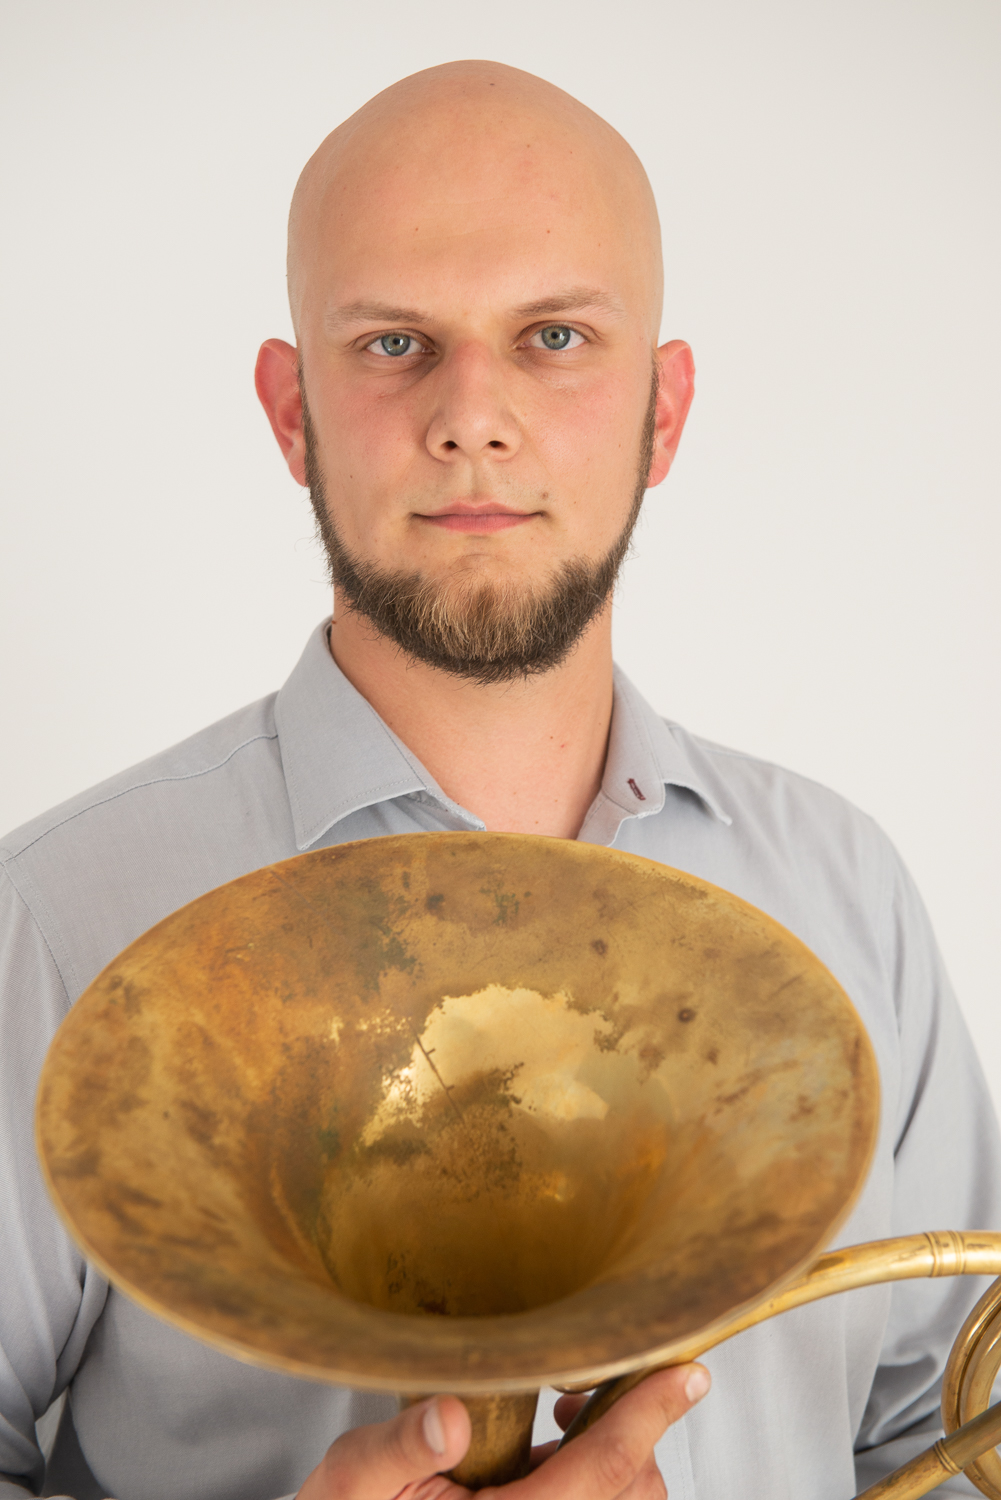
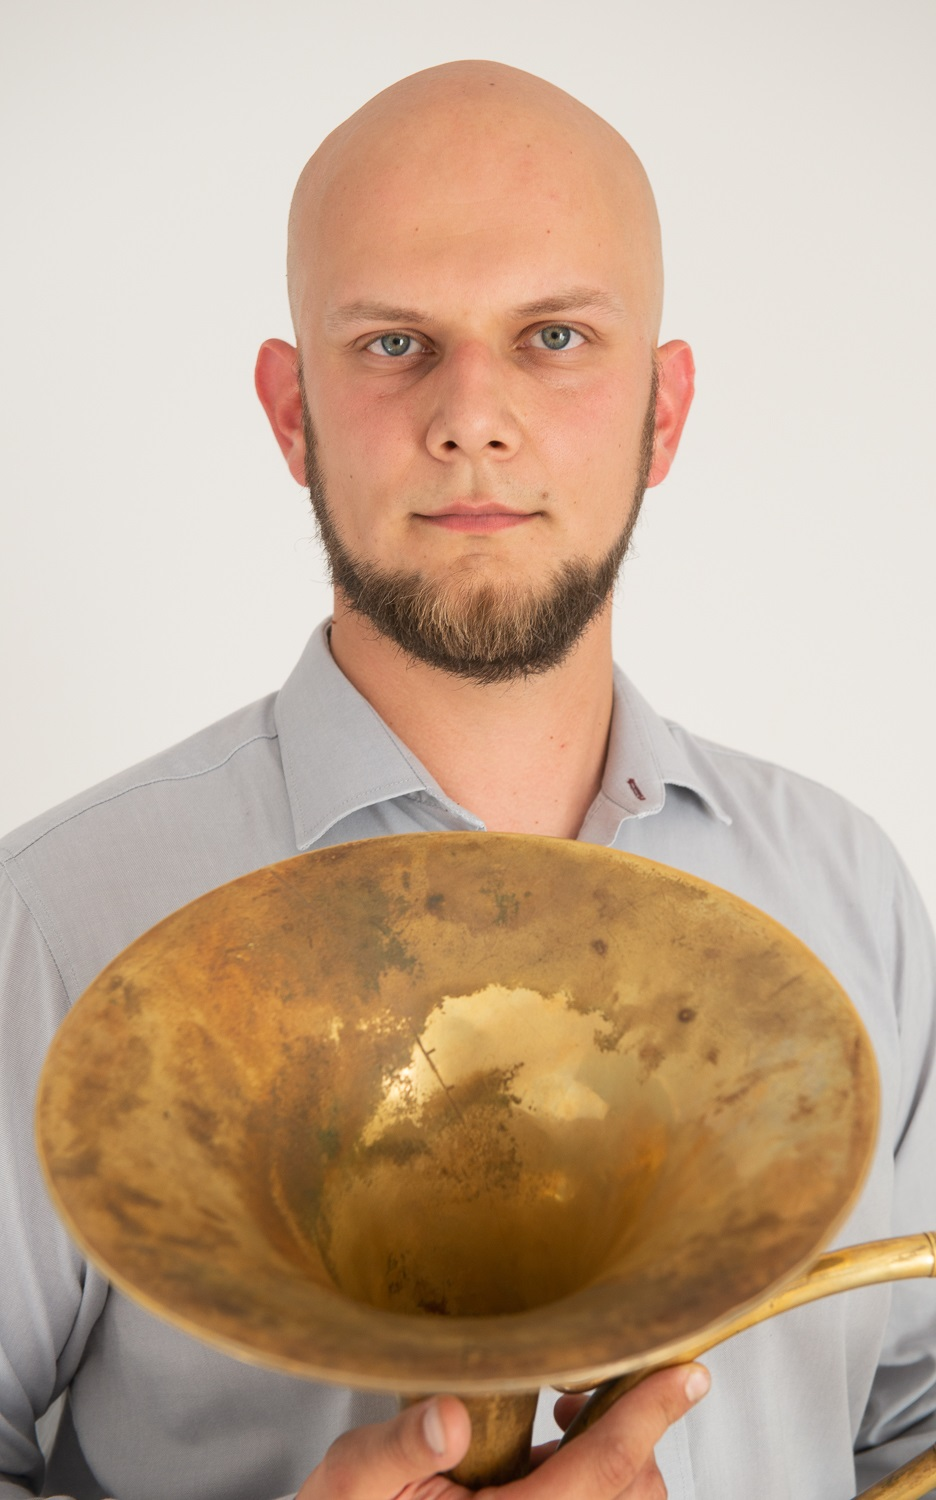
build tha 'about' section

diff --git a/index.html b/index.html
@@ -14,7 +14,7 @@
 <body>
 
     <header class="header">
-        <div class="header__brand">mateuszcendlak.com</div>
+        <div class="header__brand"><a href="#" class="link link--brand">mateuszcendlak.com</a></div>
 
         <nav class="header__nav">
             <ul class="menu">
@@ -38,9 +38,10 @@
         </section>
         <section id="about" class="main--section main__about">
             <h1 class="main__about--title">about</h1>
-            <!-- <img src="img/DSC_4494.jpg" class="main__about--profile-picture"> -->
-            <article class="main__about--bio">
-                <p><span class="name">Mateusz Cendlak – waltornista grający na rogach historycznych.</span>
+            <div class="main__about--info">
+                <img src="img/profile.jpg" class="main__about--profile-picture">
+                <article class="main__about--bio">
+                    <p><span class="name">Mateusz Cendlak – waltornista grający na rogach historycznych.</span>
                     Studia w zakresie gry na rogu oraz rogu naturalnym odbył w Akademii Muzycznej im. I. J.
                     Paderewskiego w Poznaniu oraz w Królewskim Konserwatorium w Hadze. Brał udział w warsztatach i
                     kursach prowadzonych przez takich waltornistów jak: Teunis van der Zwart, Erwin Wieringa,
@@ -51,14 +52,16 @@
                     takimi zespołami jak Orkiestra XVIII Wieku (Holandia), Bremer Barockorchester (Niemcy), Minsk
                     Chamber Soloists (Białoruś), Esterházy Hofkapelle (Węgry), Musica Aeterna (Słowacja), Wrocławska
                     Orkiestra Barokowa, {oh!} Orkiestra Historyczna oraz Royal Baroque Ensemble.
-                </p>
-                <p>Był wykładowcą w klasie rogów historycznych podczas XV Forum Muzyka Dawna na Uniwersytecie
+                    </p>
+                    <p>Był wykładowcą w klasie rogów historycznych podczas XV Forum Muzyka Dawna na Uniwersytecie
                     Muzycznym
                     Fryderyka Chopina w Warszawie oraz XXIV i XXV Międzynarodowej Letniej Akademii Muzyki Dawnej w
                     Warszawie.</p>
 
 
-            </article>
+                </article>
+            </div>
+            
         </section>
         <section id="media" class="main--section main__media">
             <div class="main__media--title">

diff --git a/scss/main.scss b/scss/main.scss
@@ -13,6 +13,9 @@ $secondary-dark: #674421;
 // MARGINS
 $header-side-margin: 7rem;
 
+// PADDINGS
+$section-main-padding: 7rem;
+
 
 *,
 *::after,
@@ -25,14 +28,11 @@ html,
 body {
     margin: 0;
     padding: 0;
-    // height: 100vh;
     overflow-x: hidden;
     scroll-behavior: smooth;
 }
 
 body {
-    // display: flex;
-    // flex-direction: column;
     font-family: 'Montserrat', sans-serif;
     // font-family: 'Crimson pro', serif;
 }
@@ -40,7 +40,6 @@ body {
 .header {
     background-color: $primary-light;
     width: 100vw;
-    // margin: 50px;
     display: flex;
     justify-content: space-between;
     align-items: center;
@@ -51,7 +50,7 @@ body {
 
     &__brand {
         margin-left: $header-side-margin;
-        font-size: 1rem;
+        font-size: 1.25rem;
         font-weight: 700;
     }
 
@@ -71,6 +70,13 @@ body {
             &__item {
                 margin: 0 1rem;
             }
+
+            &__link {
+                &:hover {
+                    color: $primary-dark;
+                    border-bottom: 1px solid $primary-dark;
+                }
+            }
         }
     }
 
@@ -81,10 +87,6 @@ body {
     text-decoration: none;
     transition: all .2s;
 
-    &:hover {
-        color: $primary-dark;
-        border-bottom: 1px solid $primary-dark;
-    }
 }
 
 .btn {
@@ -109,16 +111,14 @@ body {
 }
 
 .main {
-    margin-top: 2rem;
 
     &--section {
         min-height: 100vh;
+        padding: $section-main-padding;
     }
 
     &__welcome-screen {
         text-align: center;
-        position: relative;
-        top: -5px;
         background: linear-gradient(to right, rgba($primary-dark, .8), rgba($primary-light, .8)), url('../img/bg.jpg');
         background-size: cover;
 
@@ -139,6 +139,29 @@ body {
         &--btn {
             margin-top: 5rem;
         }
+    }
+
+    &__about {
+
+        &--info {
+            display: flex;
+            justify-content: center;
+
+        }
+
+        &--profile-picture {
+            max-width: 20vw;
+            clip-path: polygon(25% 0%, 100% 0%, 75% 100%, 0% 100%);
+        }
+
+        &--bio {
+            max-width: 40vw;
+            
+        }
+    }
+
+    &__media {
+        background-color: $secondary-light;
     }
 
 }

diff --git a/css/main.css b/css/main.css
@@ -35,7 +35,7 @@ body {
 }
 .header__brand {
   margin-left: 7rem;
-  font-size: 1rem;
+  font-size: 1.25rem;
   font-weight: 700;
 }
 .header__nav {
@@ -51,15 +51,15 @@ body {
 .header__nav .menu__item {
   margin: 0 1rem;
 }
+.header__nav .menu__link:hover {
+  color: #464343;
+  border-bottom: 1px solid #464343;
+}
 
 .link {
   color: inherit;
   text-decoration: none;
   transition: all 0.2s;
-}
-.link:hover {
-  color: #464343;
-  border-bottom: 1px solid #464343;
 }
 
 .btn {
@@ -80,16 +80,12 @@ body {
   box-shadow: 0px 2px 3px 0px rgba(0, 0, 0, 0.3);
 }
 
-.main {
-  margin-top: 2rem;
-}
 .main--section {
   min-height: 100vh;
+  padding: 7rem;
 }
 .main__welcome-screen {
   text-align: center;
-  position: relative;
-  top: -5px;
   background: linear-gradient(to right, rgba(70, 67, 67, 0.8), rgba(212, 198, 182, 0.8)), url("../img/bg.jpg");
   background-size: cover;
 }
@@ -106,6 +102,20 @@ body {
 }
 .main__welcome-screen--btn {
   margin-top: 5rem;
+}
+.main__about--info {
+  display: flex;
+  justify-content: center;
+}
+.main__about--profile-picture {
+  max-width: 20vw;
+  clip-path: polygon(25% 0%, 100% 0%, 75% 100%, 0% 100%);
+}
+.main__about--bio {
+  max-width: 40vw;
+}
+.main__media {
+  background-color: #d1ad87;
 }
 
 /*# sourceMappingURL=main.css.map */
